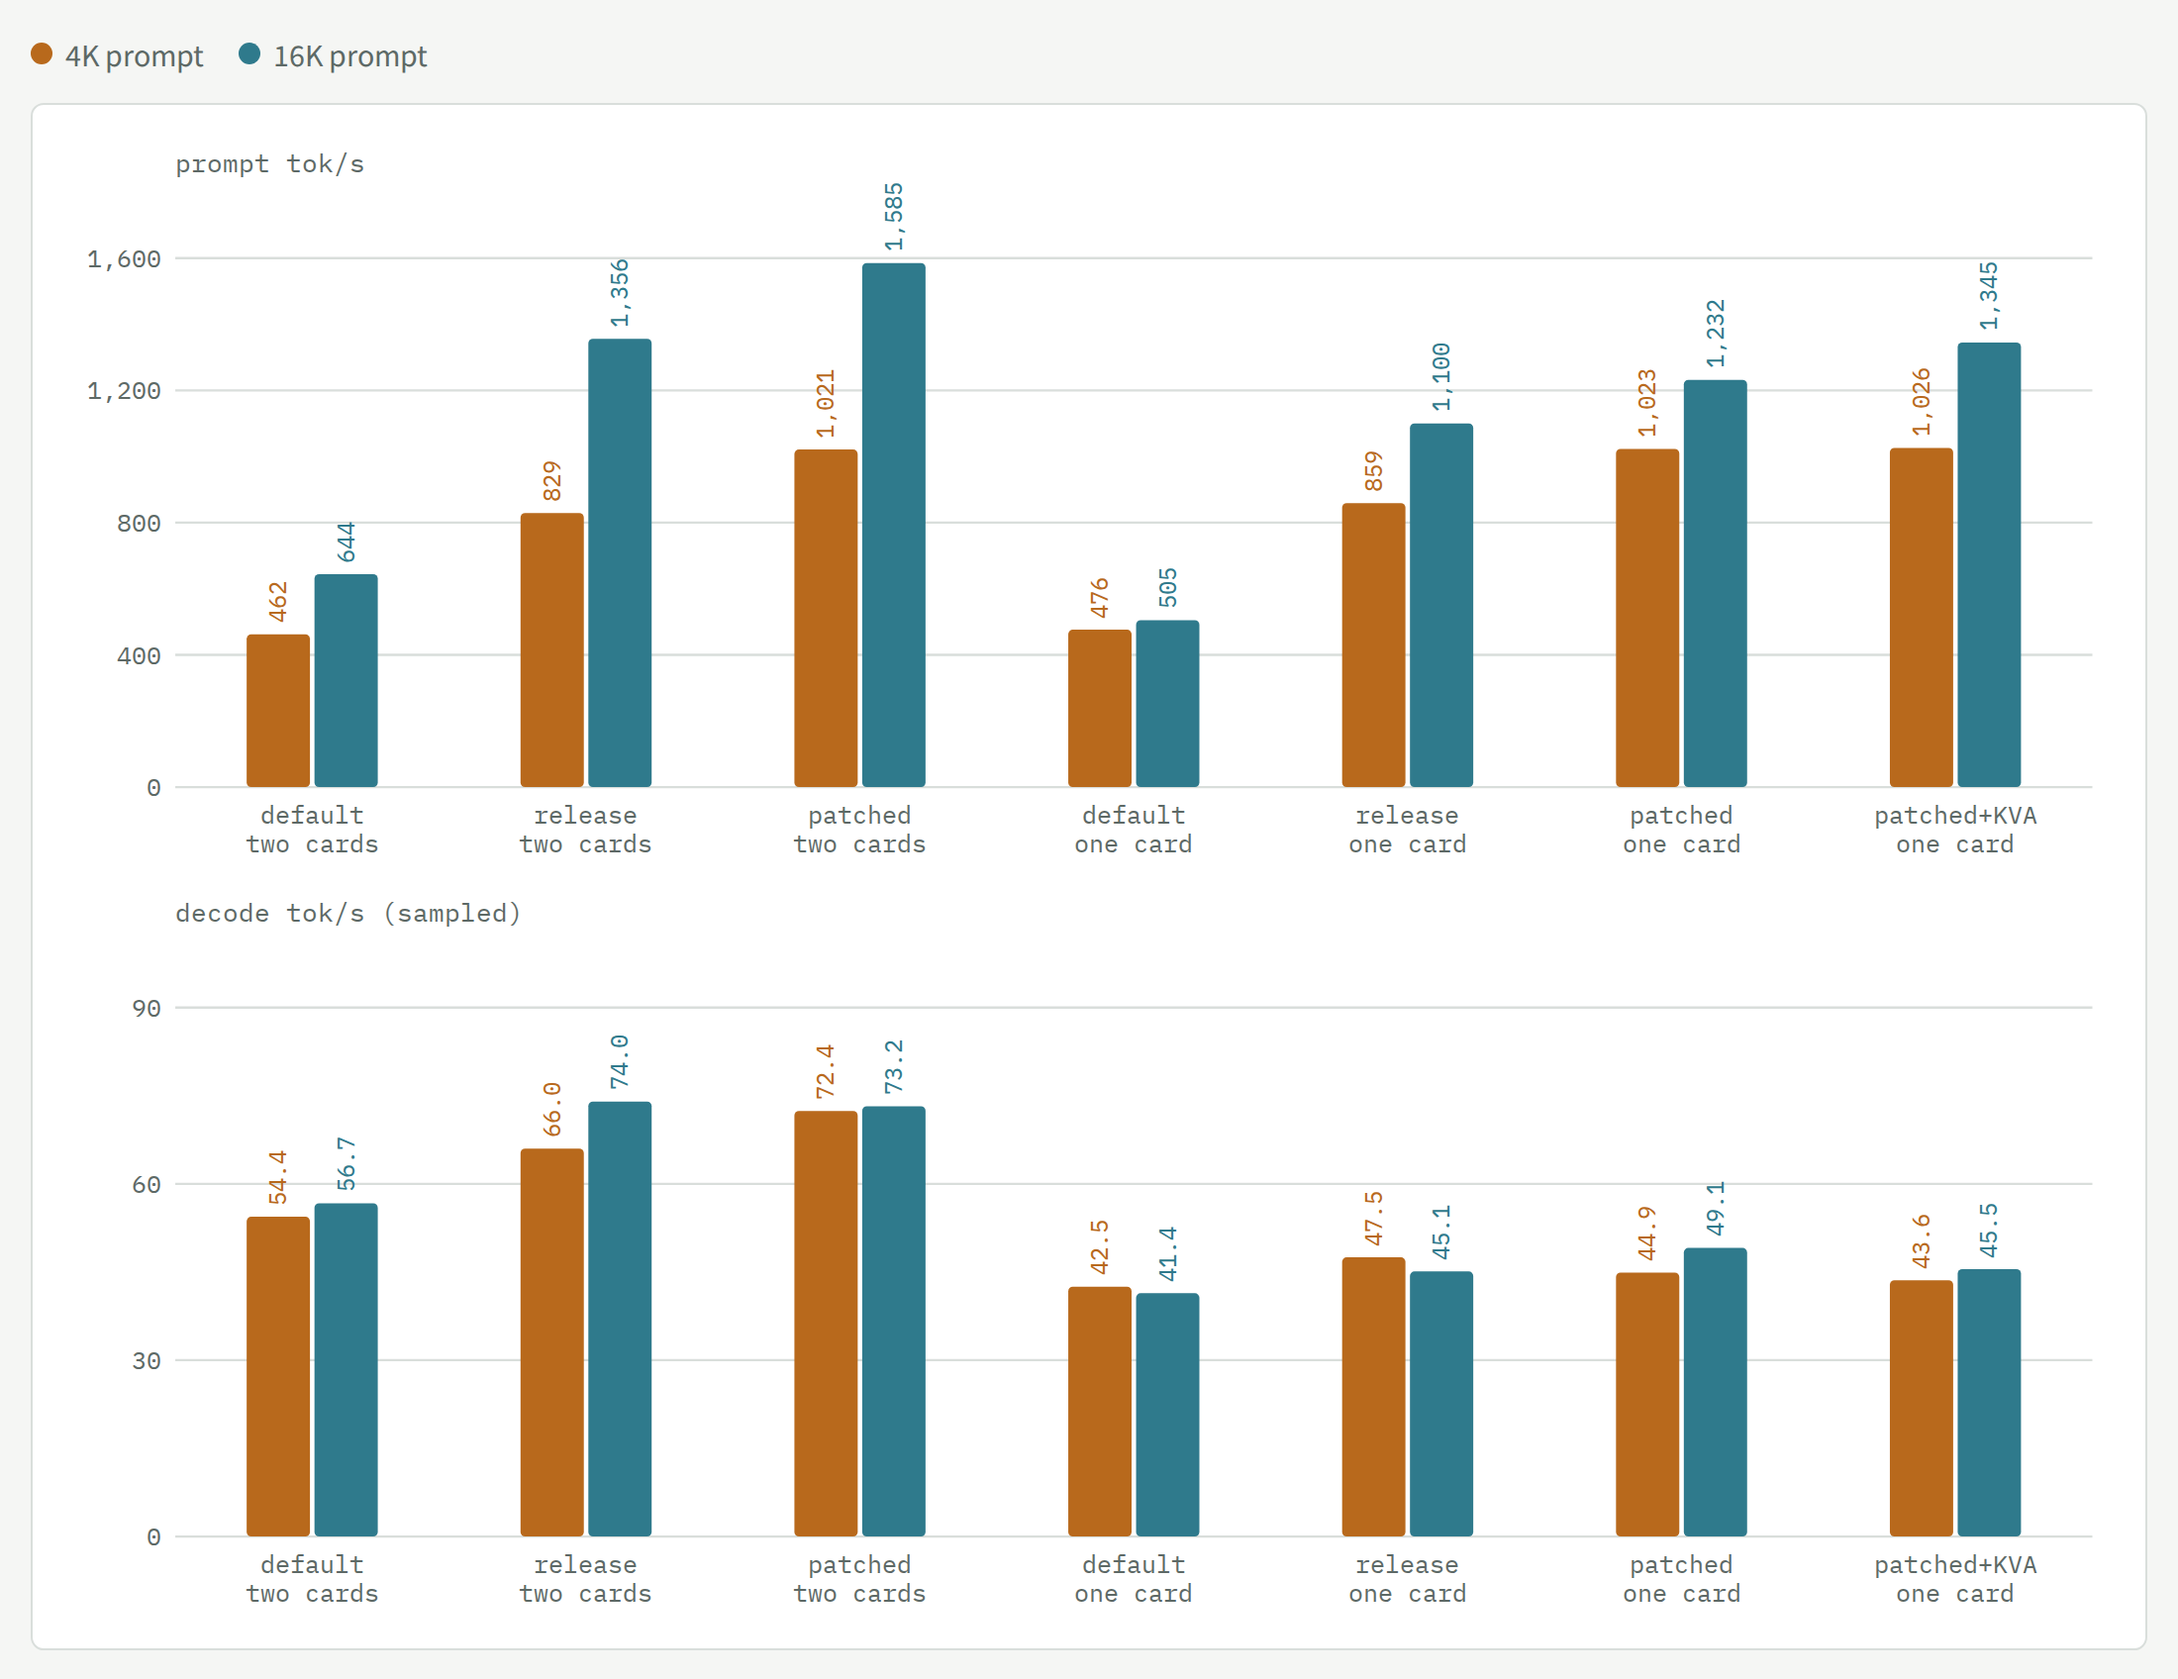
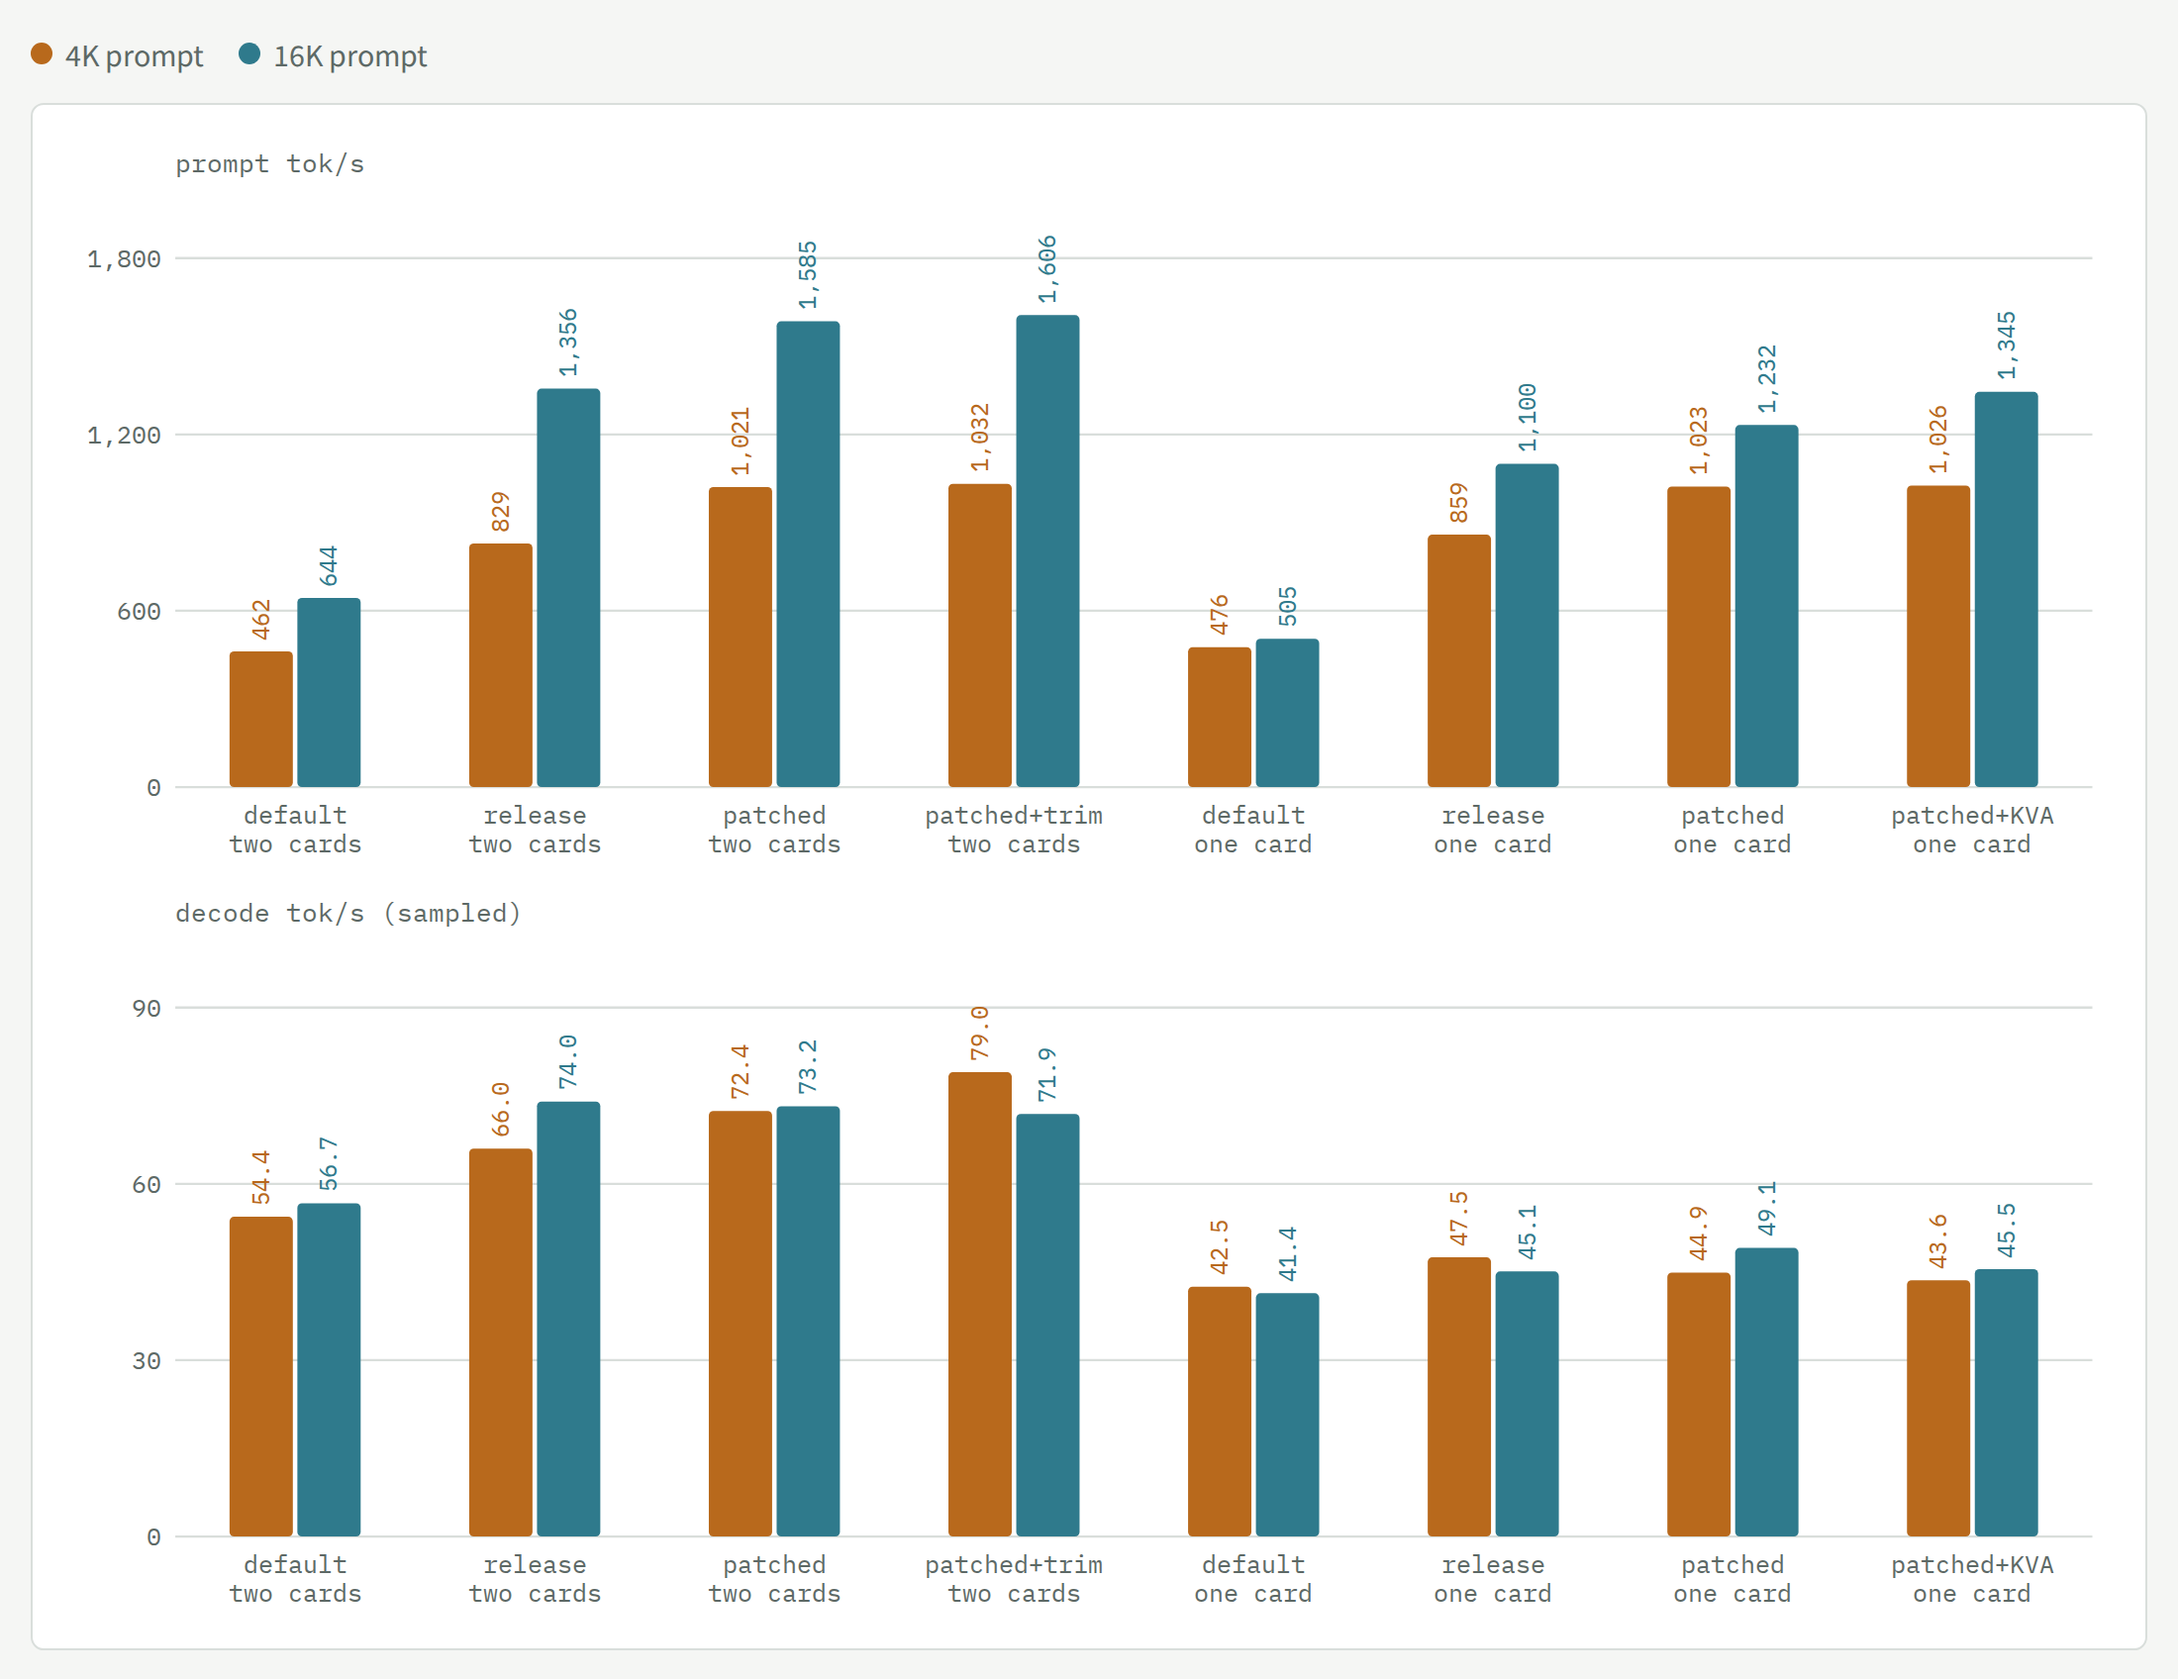
Std chart: add the patched+trim two-card group (E619, production since 10-29 13:01)
The bar beside it used auto split (24) without trim, so the caption marks it a sanity check;
the trim's A/B is in docs/linux-dual-6900xt. Prompt axis to 1,800.

diff --git a/index.html b/index.html
@@ -192,7 +192,7 @@ code{font-family:var(--f-data);font-size:.92em}
     <span><i class="dot" style="background:var(--l-prompt)"></i><span class="zh">16K prompt</span><span class="en">16K prompt</span></span>
   </div>
   <div class="panel"><div class="chart" id="std"></div><div class="chart" id="std2"></div>
-  <p class="foot"><span class="zh">strata bench run（协议 strata-qwen38-thinking-v1-draft.1，采样解码，三次取中位，每臂一次完整运行），全部 12/12、0 停转。"原版包" = 0.2.7 发布的 rx6000 引擎包 0.1.52 原样 + 上游已有开关（SH_STREAM、HIP_PROMPT_F16、HIP_ADAPT_KERNEL_COPY、HC_PERSIST 等）；包内 rocBLAS 5.4.0 与随附的 5.6.0 表不符，走默认内核。"补丁" = 本机生产 027（#3381、#3382、#3073、#3095 + 改过的 llama.cpp ggml + rocBLAS 5.6.0 表 + --prefill-pipe 3072）。"+ KVA" = 单卡补丁 + STRATA_KVA=1；协议的 4K prompt 是 4,084–4,088 token，没过 4,096 门槛，所以 4K 不变。"开箱" = strata launch 的默认配置（引擎 0.1.52）。开箱 → 上游开关：读 prompt 约翻倍；开关 → 补丁：单卡 +19% / +12%、两卡 +23% / +17%（两卡补丁 = 当前生产 027f，含 #3821 分块下限，16K 切 3×5632）。解码在采样噪声内。0.2.7 开箱与 0.2.2 持平（#3790）。</span><span class="en">strata bench run (protocol strata-qwen38-thinking-v1-draft.1, sampled decode, median of three, one full run per arm), all 12/12, 0 stalls. "Release package" = the 0.2.7 rx6000 engine package 0.1.52 as shipped plus the upstream opt-in switches (SH_STREAM, HIP_PROMPT_F16, HIP_ADAPT_KERNEL_COPY, HC_PERSIST and others); its rocBLAS is 5.4.0 and the shipped table is 5.6.0, so the default kernels run. "Patched" = this box's production 027 build (#3381, #3382, #3073, #3095, a modified llama.cpp ggml, the rocBLAS 5.6.0 table, --prefill-pipe 3072). "+ KVA" = one patched card plus STRATA_KVA=1; the protocol's 4K prompt is 4,084–4,088 tokens, under the 4,096 threshold, so 4K is unchanged. "Default" = strata launch's setup (engine 0.1.52). Default to switches roughly doubles prompt reading; switches to patched adds +19% / +12% on one card and +23% / +17% on two (two-card patched = the current production 027f, with #3821's chunk floor, 16K cut into 3x5632). Decode within the sampling noise. 0.2.7 out of the box equals 0.2.2 (#3790).</span></p></div>
+  <p class="foot"><span class="zh">strata bench run（协议 strata-qwen38-thinking-v1-draft.1，采样解码，三次取中位，每臂一次完整运行），全部 12/12、0 停转。"原版包" = 0.2.7 发布的 rx6000 引擎包 0.1.52 原样 + 上游已有开关（SH_STREAM、HIP_PROMPT_F16、HIP_ADAPT_KERNEL_COPY、HC_PERSIST 等）；包内 rocBLAS 5.4.0 与随附的 5.6.0 表不符，走默认内核。"补丁" = 本机生产 027（#3381、#3382、#3073、#3095 + 改过的 llama.cpp ggml + rocBLAS 5.6.0 表 + --prefill-pipe 3072）。"+ KVA" = 单卡补丁 + STRATA_KVA=1；协议的 4K prompt 是 4,084–4,088 token，没过 4,096 门槛，所以 4K 不变。"开箱" = strata launch 的默认配置（引擎 0.1.52）。开箱 → 上游开关：读 prompt 约翻倍；开关 → 补丁：单卡 +19% / +12%、两卡 +23% / +17%（两卡补丁 = 027f，含 #3821 分块下限，16K 切 3×5632）。"补丁+裁剪" = 当前生产：再写死分点 27 并开 STRATA_STAGE_TRIM=1（E619，10-29 13:00）；它左边的"补丁"是 auto 分点（此配置选 24）不裁剪，两样同时变、各跑一次，只作健全性检查，裁剪的 A/B 见 docs（读 2K +8%、解码 +1~3%）。解码在采样噪声内。0.2.7 开箱与 0.2.2 持平（#3790）。</span><span class="en">strata bench run (protocol strata-qwen38-thinking-v1-draft.1, sampled decode, median of three, one full run per arm), all 12/12, 0 stalls. "Release package" = the 0.2.7 rx6000 engine package 0.1.52 as shipped plus the upstream opt-in switches (SH_STREAM, HIP_PROMPT_F16, HIP_ADAPT_KERNEL_COPY, HC_PERSIST and others); its rocBLAS is 5.4.0 and the shipped table is 5.6.0, so the default kernels run. "Patched" = this box's production 027 build (#3381, #3382, #3073, #3095, a modified llama.cpp ggml, the rocBLAS 5.6.0 table, --prefill-pipe 3072). "+ KVA" = one patched card plus STRATA_KVA=1; the protocol's 4K prompt is 4,084–4,088 tokens, under the 4,096 threshold, so 4K is unchanged. "Default" = strata launch's setup (engine 0.1.52). Default to switches roughly doubles prompt reading; switches to patched adds +19% / +12% on one card and +23% / +17% on two (two-card patched = 027f, with #3821's chunk floor, 16K cut into 3x5632). "Patched+trim" = the current production: the split pinned to 27 with STRATA_STAGE_TRIM=1 (E619, 10-29 13:00); the "patched" bar beside it used auto split (24 on this config) without the trim, so two things changed and each ran once - a sanity check only; the trim's A/B is in the docs (2K prompt +8%, decode +1-3%). Decode within the sampling noise. 0.2.7 out of the box equals 0.2.2 (#3790).</span></p></div>
 </section>
 
 <section id="steps">
@@ -445,8 +445,8 @@ function drawOne(){drawBars('one',['4K','8K','16K','32K'],
   [[['去 SH_STREAM','no SH_STREAM'],'var(--l-drop)',[1056,1227,1240,1238],[50.1,50.2,49.2,49.5]],[['生产开关组','production'],'var(--l-prompt)',[1057,1224,1240,1240],[53.8,54.0,52.5,52.1]],['+ KVA','var(--l-decode)',[1055,1226,1363,1434],[53.8,54.2,51.5,50.4]]],
   [[['读 prompt tok/s（一张卡）','prompt tok/s (one card)'],'p',1600,[0,400,800,1200,1600]],[['解码 tok/s（一张卡）','decode tok/s (one card)'],'d',60,[0,20,40,60]]]);}
 
-function drawStd(){const G=[['开箱\n两卡','default\ntwo cards'],['原版包\n两卡','release\ntwo cards'],['补丁\n两卡','patched\ntwo cards'],['开箱\n一卡','default\none card'],['原版包\n一卡','release\none card'],['补丁\n一卡','patched\none card'],['补丁+KVA\n一卡','patched+KVA\none card']],S=[['4K','var(--l-stable)',[462,829,1021,476,859,1023,1026],[54.4,66.0,72.4,42.5,47.5,44.9,43.6]],['16K','var(--l-prompt)',[644,1356,1585,505,1100,1232,1345],[56.7,74.0,73.2,41.4,45.1,49.1,45.5]]];
-  drawBars('std',G,S,[[['读 prompt tok/s','prompt tok/s'],'p',1600,[0,400,800,1200,1600]]]);
+function drawStd(){const G=[['开箱\n两卡','default\ntwo cards'],['原版包\n两卡','release\ntwo cards'],['补丁\n两卡','patched\ntwo cards'],['补丁+裁剪\n两卡','patched+trim\ntwo cards'],['开箱\n一卡','default\none card'],['原版包\n一卡','release\none card'],['补丁\n一卡','patched\none card'],['补丁+KVA\n一卡','patched+KVA\none card']],S=[['4K','var(--l-stable)',[462,829,1021,1032,476,859,1023,1026],[54.4,66.0,72.4,79.0,42.5,47.5,44.9,43.6]],['16K','var(--l-prompt)',[644,1356,1585,1606,505,1100,1232,1345],[56.7,74.0,73.2,71.9,41.4,45.1,49.1,45.5]]];
+  drawBars('std',G,S,[[['读 prompt tok/s','prompt tok/s'],'p',1800,[0,600,1200,1800]]]);
   drawBars('std2',G,S,[[['解码 tok/s（采样）','decode tok/s (sampled)'],'d',90,[0,30,60,90]]]);}
 
 function drawFilters(){
